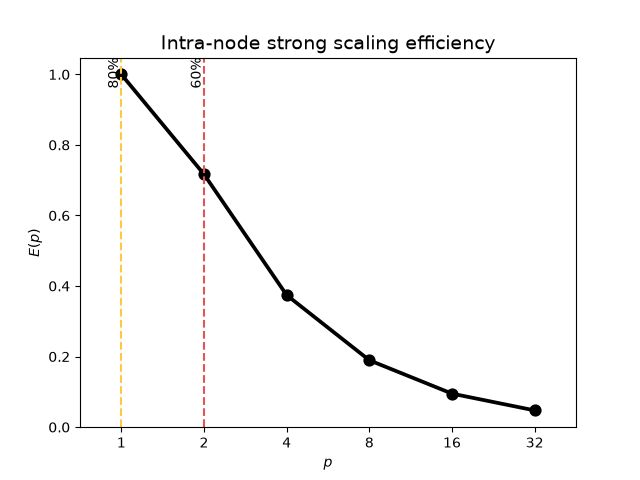
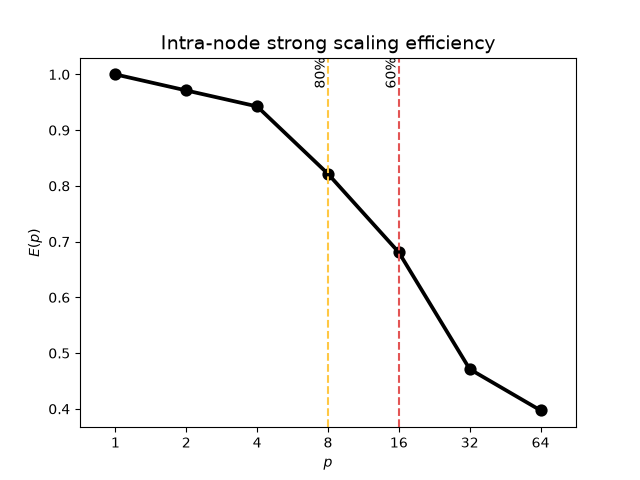
updated scaling data, pending finalised internode

diff --git a/high-level-report.md b/high-level-report.md
@@ -54,17 +54,14 @@ All analyses were performed on an exclusive node on DINE2 with the following exa
 #SBATCH --cpus-per-task=16
 #SBATCH --nodes=1
 #SBATCH --exclusive
-#SBATCH --distribution=block:block
 ```
 For intra-node runs, the `--ntasks-per-node` and `--cpus-per-task` values are set to the number of MPI ranks and OpenMP threads respectively. For inter-node runs, the `--nodes` value is varied.
 
-MPI ranks are distributed in a `block:block` configuration. The following directives were used for OpenMP thread distribution:
-
+We control thread/rank affinity and placement via `likwid-mpirun` as follows
 ```bash
-export OMP_NUM_THREADS=$SLURM_CPUS_PER_TASK # Set with --cpus-per-task
-export OMP_PLACES=cores
-export OMP_PROC_BIND=close
+likwid-mpirun -np 2 -mpi openmpi -nperdomain S:1 -t 32 -d ./qft 29
 ```
+This will assign an MPI rank per socket - i.e., 2 ranks for this dual socket system - and associate 32 pinned threads to each rank.
 
 ### 1.3 Base input
 The following is the input configuration used for serial runs:
@@ -116,36 +113,42 @@ Whilst this is higher than the $\approx$ 0.26 without the `BMI2` option enabled,
 
 ## 3. Intra-node assessment
 
-For a high-level analysis of the intra-node performance, we perform a strong scaling by fixing the problem size and increasing core allocation. Note, the benchmark by default performs two runs and times them internally. We check that these times are consistent and then use the second runtime (in seconds) as our **Time** data.
+For a high-level analysis of the intra-node performance, we perform a strong scaling by fixing the problem size and increasing core allocation. Note, the benchmark by default performs two runs and times them internally. We check that these times are consistent and then use the second runtime (in seconds) as our **Time** data below.
 
-| Cores | Ranks | Thread per rank | Time (s) | Parallel efficiency (%) |
-| ----- | ----- | --------------- | -------- | ----------------------- |
-| 1     | 1     | 1               | 400.473  | 1                       |
-| 2     | 1     | 2               | 279.382  | 0.716712                |
-| 4     | 1     | 4               | 267.522  | 0.374243                |
-| 8     | 1     | 8               | 264.053  | 0.18958                 |
-| 16    | 1     | 16              | 263.717  | 0.0949107               |
-| 32    | 1     | 32              | 264.196  | 0.0473693               |
+|   # Cores/threads | Ranks |   Time (s) |   Parallel efficiency (%) |
+|------------------:|------:|-----------:|--------------------------:|
+|                 1 |     1 |   399.911  |                  1        |
+|                 2 |     1 |   205.886  |                  0.971195 |
+|                 4 |     1 |   106.072  |                  0.942546 |
+|                 8 |     1 |    60.8454 |                  0.821572 |
+|                16 |     1 |    36.7202 |                  0.680673 |
+|                32 |     1 |    26.5177 |                  0.471278 |
+|                32 |     2 |    21.196  |                  0.294801 |
 
 <img src='images/intranode.png' width=500 alt="Intranode performance"/>
 
-The 80% threshold is at 1 core and the 60% threshold is at 2 cores. As a proportion of the number of cores available on the node i.e. 64, the scores are:
+For this scaling we follow the submitter's advice and increase the thread count
+until we have filled one NUMA domain (32 cores) and then continue to scale by
+assigning a MPI rank to the next NUMA domain. For this system, each socket of a
+dual socket node is a single NUMA domain.  The 80% threshold is at 8 core and
+the 60% threshold is at 16 cores. As a proportion of the number of cores
+available on the node i.e. 64, the scores are:
 
 $$
-C^{80\\\%}_{intra}=\frac{p^{80\\\%}_{critical,intra}}{p_{max,intra}}=\frac{1}{64}=0.015625
+C^{80\\\%}_{intra}=\frac{p^{80\\\%}_{critical,intra}}{p_{max,intra}}=\frac{8}{64}=0.125
 $$
 
 and
 
 $$
-C^{60\\\%}_{intra}=\frac{p^{60\\\%}_{critical,intra}}{p_{max,intra}}=\frac{2}{64}=0.03125
+C^{60\\\%}_{intra}=\frac{p^{60\\\%}_{critical,intra}}{p_{max,intra}}=\frac{16}{64}=0.25
 $$
 
 | Efficiency                                                 | Description | Score |
 | ---------------------------------------------------------- | ----------- | ----- |
 | $C^{80\\\%}_{intra} \ge$ 0.8                                 | <span style="background-color: #0080005f">Shared memory scaling does not require further analysis.</span> |   |
 | $C^{80\\\%}_{intra} \lt$ 0.8 ^ $C^{60\\\%}\_{intra} \ge$ 0.6    | <span style="background-color: #ffff005c">Shared memory scaling may require analysis; scaling performance may be impacted when porting to newer chips with more cores.</span> |   |
-| otherwise                                                  | <span style="background-color: #ff00004e">Shared memory scaling requires in-depth analysis.</span> |$C^{80\\\%}_{intra} \approx$ 0.015625 & $C^{60\\\%}\_{intra} \approx$ 0.03125|
+| otherwise                                                  | <span style="background-color: #ff00004e">Shared memory scaling requires in-depth analysis.</span> |$C^{80\\\%}_{intra} \approx$ 0.25 & $C^{60\\\%}\_{intra} \approx$ 0.125|
 
 Based on the classification of the metrics and observations from the parallel efficiency plot, the code demonstrates unfavourable scaling within a node with this configuration. The intra-node performance therefore requires further investigation.
 
@@ -160,13 +163,12 @@ is repeated with the new size for that node count, and the strong scaling
 analysis is continued over the remaining node counts. The step is repeated
 every time the efficiency falls below 60%.
 
-| Nodes | Ranks | Threads per rank | Relative problem size | Time (s) | Parallel efficiency (%) |
-|-------|-------|------------------|-----------------------|----------|-------------------------|
-| 1     | 2     | 32               | 1.0                   | 134.592  | 1                       |
-| 2     | 4     | 32               | 1.0                   | 67.9727  | 0.990045                |
-| 4     | 8     | 32               | 1.0                   | 34.5952  | 0.97262                 |
-| 8     | 16    | 32               | 1.0                   | 267.626  | 0.0628638               |
-| 8     | 16    | 32               | 2.0                   | 36.8884  | 0.912157                |
+|   # Nodes |   Time (s) |   Parallel efficiency (%) |
+|----------:|-----------:|--------------------------:|
+|         1 |   16.0722  |                  1        |
+|         2 |    8.75535 |                  0.91785  |
+|         4 |    5.26717 |                  0.762848 |
+|         8 |    2.5946  |                  0.77431  |
 
 <img src='images/internode.png' width=500 alt="Internode performance"/>
 
@@ -189,7 +191,7 @@ where $\mathbb{C}_{crit}^{60\\\%}$ is the set of processor counts that correspon
 
 | Efficiency                                                                                          | Description                                                                                                    | Score                                                                           |
 |-----------------------------------------------------------------------------------------------------|----------------------------------------------------------------------------------------------------------------|---------------------------------------------------------------------------------|
-| $C^{80\\\%}_{inter} \ge$ 0.8 $.C\_{inter}$ ^ $C^{80\\\%}\_{inter} + C^{60\\\%}\_{inter}=C\_{inter}$ | <span style="background-color: #0080005f">Distributed memory scaling does not require further analysis.</span> | $C^{80\\\%}\_{inter} \approx$ 1.0 & $C^{60\\\%}\_{inter} \approx$ 0.0           |
+| $C^{80\\\%}_{inter} \ge$ 0.8 $.C\_{inter}$ ^ $C^{80\\\%}\_{inter} + C^{60\\\%}\_{inter}=C\_{inter}$ | <span style="background-color: #0080005f">Distributed memory scaling does not require further analysis.</span> | $C^{80\\\%}\_{inter} =$ 0.0 & $C^{60\\\%}\_{inter} =$ 0.0           |
 | $C^{60\\\%}\_{inter} \ge$ 0.6 $.C\_{inter}$                                                         | <span style="background-color: #ffff005c">Distributed memory scaling may require further analysis.</span>      |                                                                                 |
 | otherwise                                                                                           | <span style="background-color: #ff00004e">Distributed memory scaling requires in-depth analysis.</span>        |                                                                                 |
 
@@ -203,13 +205,16 @@ Overall, the inter-node scaling looks very good.
 
 ## 5. GPU-performance assessment
 
-For a high-level analysis of a single GPU's performance, we look for the floating-point operation rate compared to the
-theoretical rate, $R^{GPU}_{theoretical}$ for the GPU, which can be obtained
-from [its specifications](https://www.nvidia.com/en-sg/data-center/h100/).
+For a high-level analysis of a single GPU's performance, we look for the
+floating-point operation rate compared to the theoretical rate,
+$R^{GPU}_{theoretical}$ for the GPU, which can be obtained from [its
+specifications](https://www.nvidia.com/en-sg/data-center/h100/).
 
-To analyse the performance of a single GPU, the code was compiled with the latest version of CUDA and NVHPC available on
-`gn004`. For this metric, the code was run on a single GPU and assigned
-the [input indicated earlier](#13-base-input), though the runtime on GPU is much shorter so we use the largest problem we have available within our memory constraints
+To analyse the performance of a single GPU, the code was compiled with the
+latest version of CUDA and NVHPC available on `gn004`. For this metric, the
+code was run on a single GPU and assigned the [input indicated
+earlier](#13-base-input), though the runtime on GPU is much shorter so we use
+the largest problem we have available within our memory constraints
 
 ```txt
 ./qft 31
@@ -231,7 +236,7 @@ between them.
 | Result                                       | Score          | Metric result |
 |----------------------------------------------|----------------|---------------|
 | [Core](#2-core-level-assessment)             | 0.32           | MFLOPS        |
-| [Intra-node (80%)](#3-intra-node-assessment) | 0.015625       | core(s)       |
+| [Intra-node (80%)](#3-intra-node-assessment) | 0.25           | core(s)       |
 | [Inter-node (80%)](#4-inter-node-assessment) | 1.0            | node(s)       |
 
 <img src='images/summary.png' width=500 alt="Summary"/>
